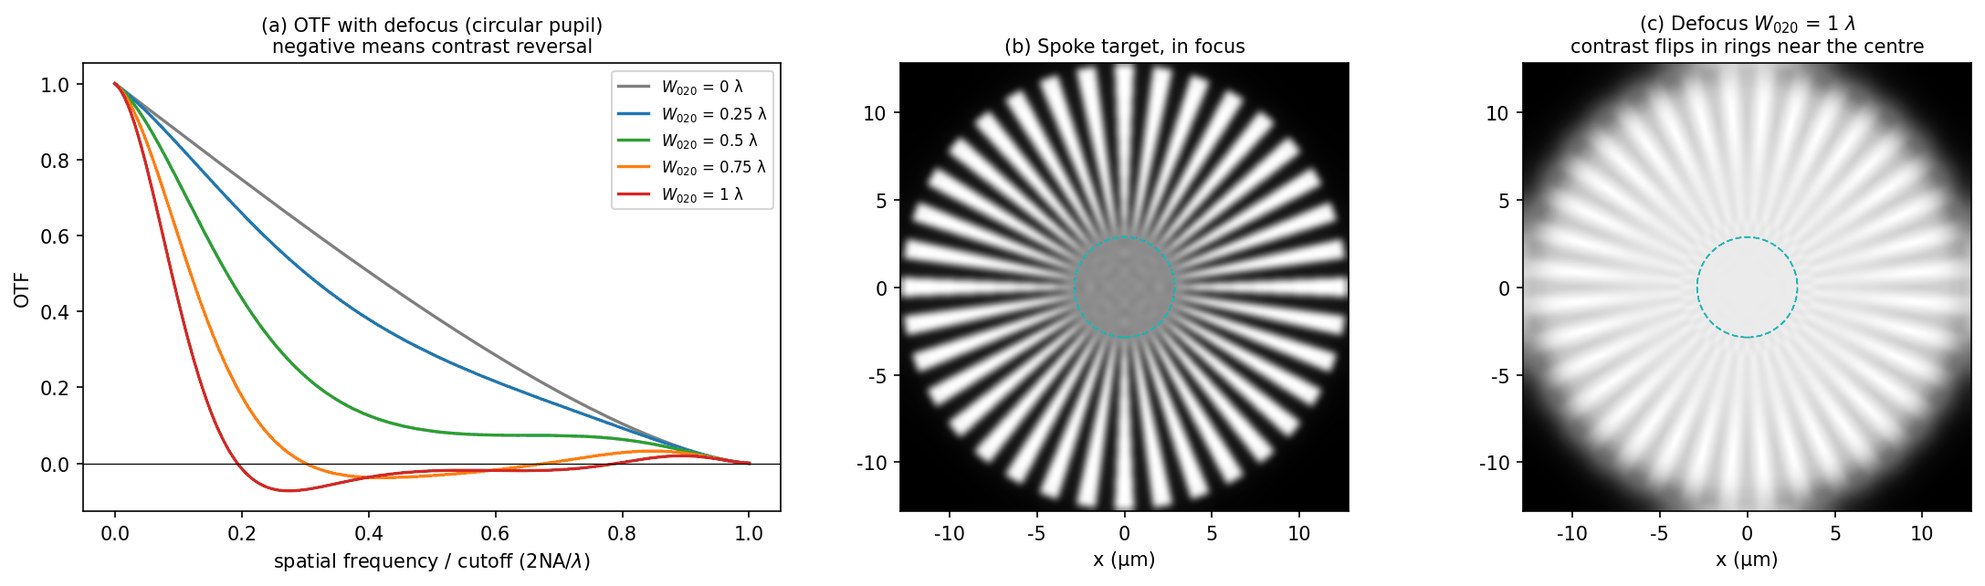
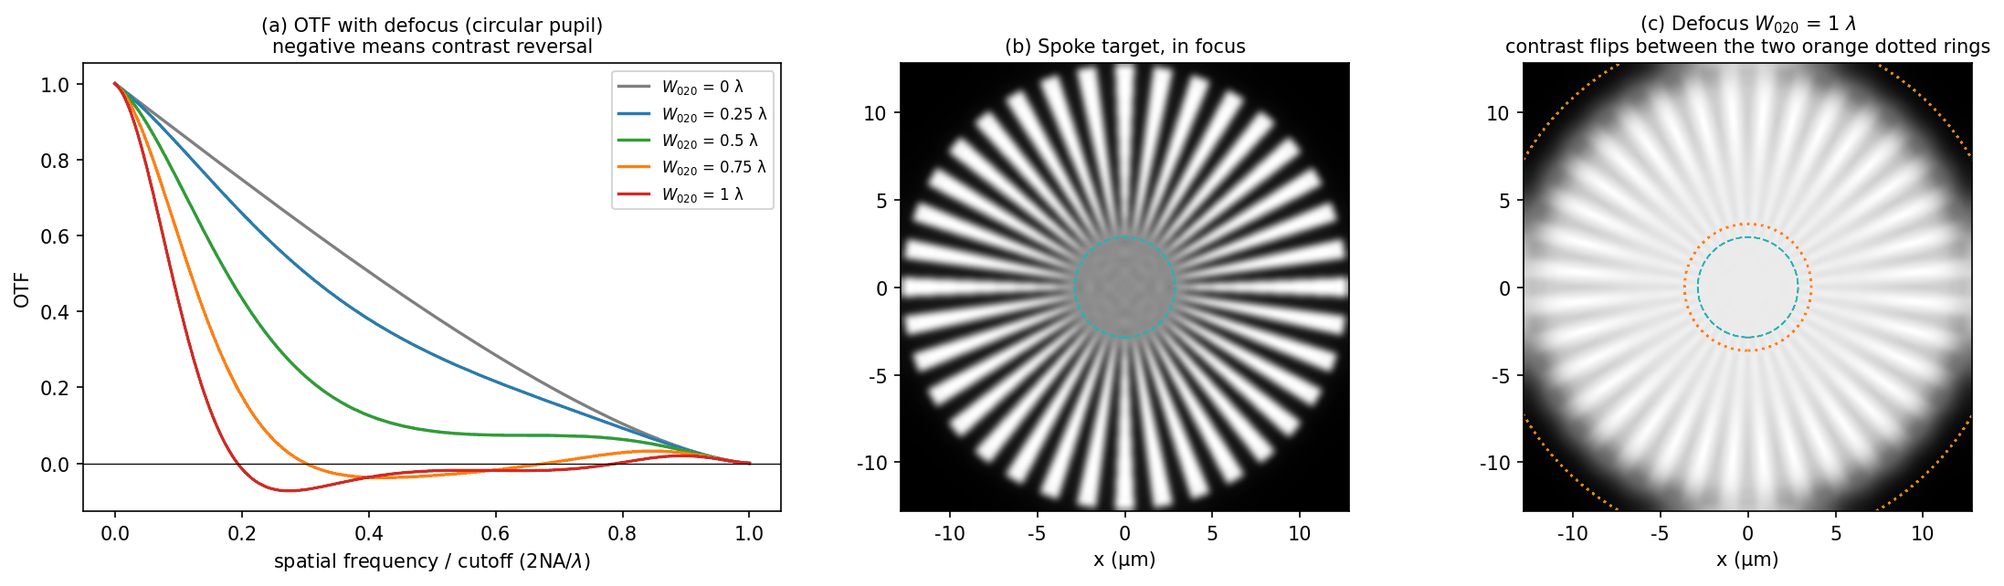
fix(post): wave-optics-fourier-imaging — 점검 반영: 번역체·근거·그림, 그림 다시 생성
tech-writing-style 점검(2026-10-15) 반영:
- 번역체·어색한 문장 다듬기 (한·영)
- 그림·표와 맞지 않던 본문·캡션 서술 정정, 근거보다 넓던 결론을 실험 조건으로 한정
- 그림을 다시 그려야 하는 경미 항목은 따로 처리 예정
근거: _references/wave-optics-fourier-imaging/audit-20261015.md (git 제외)

diff --git a/_code/wave-optics-fourier-imaging/generate_figures.py b/_code/wave-optics-fourier-imaging/generate_figures.py
@@ -380,11 +380,20 @@ def figure7(L):
         I = incoherent_image(obj, dx, NA, LAM, W)
         ax.imshow(I, cmap="gray", origin="lower", extent=[-n * dx / 2, n * dx / 2] * 2)
         ttl = t(L, f"({lab}) 바큇살 표적, 초점", f"({lab}) Spoke target, in focus") if Wd == 0 else \
-            t(L, f"({lab}) 초점 어긋남 $W_{{020}}$ = 1 λ\n가운데 근처 고리에서 명암이 뒤집힌다", f"({lab}) Defocus $W_{{020}}$ = 1 λ\ncontrast flips in rings near the centre")
+            t(L, f"({lab}) 초점 어긋남 $W_{{020}}$ = 1 λ\n주황 점선 두 고리 사이에서 명암이 뒤집힌다", f"({lab}) Defocus $W_{{020}}$ = 1 λ\ncontrast flips between the two orange dotted rings")
         ax.set_title(ttl, fontsize=10, **font(L))
         ax.set_xlabel("x (µm)")
         r_cut = 36 / (2 * np.pi * 2 * NA / LAM)
         ax.add_patch(mpatches.Circle((0, 0), r_cut, fill=False, ec="c", ls="--", lw=0.9))
+        if Wd:                       # OTF 가 음수인 주파수 구간(첫 영점 ~ 마지막 음수 끝)에 해당하는 고리
+            W1 = (lambda rho, th: rho**2)
+            nu_f = np.linspace(0.02, 1.0, 400) * 2 * NA / LAM
+            O = np.real(otf_by_overlap(nu_f * 0 + nu_f, NA, LAM, W=W1, m=501))
+            neg = nu_f[O < 0]
+            r_hi, r_lo = (36 / (2 * np.pi * neg.min()), 36 / (2 * np.pi * neg.max()))
+            for rr in (r_lo, r_hi):
+                ax.add_patch(mpatches.Circle((0, 0), rr, fill=False, ec=C_KEY, ls=":", lw=1.4))
+            print(f"    그림7(c): OTF<0 구간 반지름 {r_lo:.2f}–{r_hi:.2f} µm (주파수 {neg.min()/(2*NA/LAM):.2f}–{neg.max()/(2*NA/LAM):.2f} 차단)")
     fig.tight_layout()
     save(fig, L, "fig7-defocus-mtf-spoke.png", palette=True)
 

diff --git a/_posts/2026-12-09-wave-optics-fourier-imaging-en.md b/_posts/2026-12-09-wave-optics-fourier-imaging-en.md
@@ -12,16 +12,16 @@ description: "Treating the lens as a Fourier transformer, this post follows cohe
 math: true
 ---
 
-In front of a university building in Jena, Germany, stands a sphere carved from stone. The pedestal bears the name of Ernst Abbe (1840–1905), and instead of a decoration the band around the sphere carries a single formula (Figure 1).
+In front of a university building in Jena, Germany, stands a sphere carved from stone. The pedestal bears the name of Ernst Abbe (1840–1905), and the band around the sphere carries a single formula between diagonal-stripe decorations (Figure 1).
 
 <img src="/assets/img/posts/wave-optics-fourier-imaging/ext-abbe-memorial.jpg" alt="The Ernst Abbe memorial in Jena and the resolution formula carved on its sphere" width="760">
 _Figure 1. The Abbe memorial (1977) in front of the building at Fürstengraben 23, Jena. On the right, the part of the band bearing the formula $d = \lambda/(2n\sin\alpha)$ is cropped and enlarged. (Source: KaurJmeb at the English Wikipedia project, [Ernst Abbe memorial](https://commons.wikimedia.org/wiki/File:Ernst_Abbe_memorial.JPG), [CC BY-SA 3.0](https://creativecommons.org/licenses/by-sa/3.0/), right side cropped and enlarged)_
 
-$d = \lambda/(2n\sin\alpha)$ is the smallest spacing a microscope can resolve. Here $n\sin\alpha$ is the numerical aperture (NA) of the objective. With 500 nm visible light and an NA 1.4 oil-immersion objective it gives about 0.18 µm. However good the lens, two lines closer than that look like one. Abbe derived this limit in 1873 while designing microscopes in Carl Zeiss's workshop [1, 2]. His idea fits in one sentence: the microscope image is the result of the diffraction pattern made by the specimen interfering again [3].
+$d = \lambda/(2n\sin\alpha)$ is the smallest spacing a microscope can resolve. Here $n\sin\alpha$ is the numerical aperture (NA) of the objective. With 500 nm visible light and an NA 1.4 oil-immersion objective it gives about 0.18 µm. In air NA is below 1, so this value never drops below $\lambda/2$. The 0.18 µm is smaller than $\lambda/2$ = 0.25 µm because the wavelength inside the immersion oil is shorter. However good the lens, two lines closer than that look like one. Abbe derived this limit in 1873 while designing microscopes in Carl Zeiss's workshop [1, 2]. His idea fits in one sentence: the microscope image is the result of the diffraction pattern made by the specimen interfering again [3].
 
 [Part 3](/en/posts/wave-optics-diffraction/) ended by saying that the pattern of light that has travelled far is the Fourier transform of the aperture, and that a convex lens pulls that pattern into its focal plane. This post starts there and answers the following questions.
 
-- Why can't a microscope see things smaller than half a wavelength? Why is there a 2 in the formula above?
+- Why can't a microscope (in air) see things smaller than half a wavelength? Why is there a 2 in the formula above?
 - Why does an image taken with coherent light, like a laser, differ from one taken with lamp light? Which is sharper?
 - What does the modulation transfer function (MTF) on a lens data sheet measure? Why does the contrast of stripes reverse when the focus is slightly off?
 - How far should a microscope's condenser diaphragm be opened?
@@ -43,7 +43,7 @@ Here $U$ is the field of the object placed in the front focal plane and $(u, v)$
 
 The back focal plane is not an imaginary plane. The back focal plane of a microscope objective physically exists inside the tube, and it can be seen by removing the eyepiece or inserting a Bertrand lens [3]. [Ellipsometer part 6](/en/posts/ellipsometer-back-focal-plane-micro/) read reflections at all angles at once in this plane.
 
-Applying the Fourier transform once more returns the original function (inverted). So if two lenses are placed with focal lengths $f$ between them, the first lens transforms, the second reverses it, and an image of the object appears. The distance from object to image is $4f$, so this is called a 4f system. A mask placed in the Fourier plane in the middle is itself a filter on spatial frequencies [4, 5].
+Applying the Fourier transform once more returns the original function (inverted). So if two lenses are placed $2f$ apart, with the object a distance $f$ in front of the first and the image a distance $f$ behind the second, the first lens transforms, the second reverses it, and an image of the object appears. The distance from object to image is $4f$, so this is called a 4f system. A mask placed in the Fourier plane in the middle is itself a filter on spatial frequencies [4, 5].
 
 <img src="/assets/img/posts/wave-optics-fourier-imaging/en/fig2-lens-fourier-4f.png" alt="Structure of the 4f system, the object, the back-focal-plane intensity, and the image passed through the lens aperture" width="780">
 _Figure 2. (a) The 4f system. Light leaving the object plane at different heights in the same direction (red, green) gathers at one point of the Fourier plane. (b) An object made of vertical stripes (period 4 µm), horizontal stripes (period 0.8 µm) and a round hole. (c) Intensity in the Fourier plane (log scale). The vertical stripes make points on the horizontal axis and the horizontal stripes make points on the vertical axis. The cyan dashed circle is the range of spatial frequencies accepted by an NA 0.5 lens (wavelength 0.5 µm). (d) The coherent image made only from the light inside the dashed circle. The points of the 0.8 µm horizontal stripes lie outside the circle, so those stripes vanish from the image._
@@ -64,15 +64,15 @@ $$
 \Lambda_{\min} = \frac{\lambda}{\mathrm{NA}}\qquad (\text{head-on illumination})
 $$
 
-Tilt the illumination and the 0th order can be sent to one edge of the lens aperture while the +1st order is caught at the opposite edge. The angular span between the 0th and 1st orders then uses the whole lens aperture, and the limit halves:
+Tilt the illumination and the 0th order can be sent to one edge of the lens aperture while the +1st order is caught at the opposite edge. The 0th order enters at one edge of the aperture and the 1st at the opposite edge, so the two orders can be up to $2\,\mathrm{NA}$ apart in angle, and the resolvable period halves:
 
 $$
 \Lambda_{\min} = \frac{\lambda}{2\,\mathrm{NA}}\qquad (\text{oblique illumination})
 $$
 
-This is the formula carved on the memorial in Figure 1, and the reason it contains a 2. In other words, the 2 appears because the 0th and 1st orders each use one edge of the lens aperture. As a check in this post's calculation, at NA 0.5 head-on illumination shows a grating of period 1.05 λ/NA and makes a 0.95 λ/NA grating perfectly uniform. Illumination tilted to the pupil edge shows gratings down to 0.52 λ/NA and becomes uniform at 0.48 λ/NA. In numbers, with an NA 1.4 oil-immersion objective and 500 nm light, the limit is 0.36 µm for head-on illumination and 0.18 µm for oblique illumination.
+This is the formula carved on the memorial in Figure 1, and the reason it contains a 2. In other words, the 2 appears because the 0th and 1st orders each use one edge of the lens aperture. Numerically, at NA 0.5 head-on illumination shows a grating of period 1.05 λ/NA and makes a 0.95 λ/NA grating perfectly uniform. Illumination tilted to the pupil edge shows gratings down to 0.52 λ/NA and becomes uniform at 0.48 λ/NA. In numbers, with an NA 1.4 oil-immersion objective and 500 nm light, the limit is 0.36 µm for head-on illumination and 0.18 µm for oblique illumination.
 
-Abbe's theory was not readily accepted at first. In 1906 Porter (A. B. Porter) showed how the image changes when masks of various shapes are placed in the back focal plane [2, 4]. Figure 3 repeats that experiment by calculation.
+Abbe's theory was not readily accepted at first. In 1906 Alexander B. Porter showed how the image changes when masks of various shapes are placed in the back focal plane [2, 4]. Figure 3 repeats that experiment by calculation.
 
 <img src="/assets/img/posts/wave-optics-fourier-imaging/en/fig3-abbe-porter.png" alt="Images of a mesh object with six different masks in the Fourier plane" width="780">
 _Figure 3. Calculation of the Abbe–Porter experiment. The object is a wire mesh (period 4 µm) with a few specks of dust on it, illuminated with coherent light. Top row: Fourier-plane intensity and the mask (blue is blocked); bottom row: image intensity. (a) All pass. (b) Only the central 0th order and its surroundings pass: the mesh vanishes and only blurry dust remains. (c) Horizontal slit: only the orders on the horizontal axis remain, so only the vertical wires are visible. (d) Only the 0th and ±1st orders pass: the mesh becomes a smooth dot pattern. (e) Only the 0th order blocked: the contrast reverses and the wires become bright. (f) Only the mesh orders blocked: the mesh vanishes and only the dust remains, bright._
@@ -87,16 +87,16 @@ $$
 H_c(\nu) = \begin{cases} 1, & \lvert\nu\rvert \le \mathrm{NA}/\lambda \\ 0, & \lvert\nu\rvert > \mathrm{NA}/\lambda \end{cases}
 $$
 
-Here $\nu$ is the spatial frequency in the object plane, and $H_c$ is called the amplitude transfer function. In other words, the transfer function of coherent imaging is nothing other than the shape of the pupil, with cutoff frequency $\mathrm{NA}/\lambda$ [2, 4]. In the spatial domain, the image amplitude is the object amplitude convolved with the amplitude point-spread function (the Fourier transform of the pupil, the Airy amplitude $2J_1(v)/v$). Goodman's book writes the cutoff as $w/\lambda z_i$ in terms of the lens radius and image distance; rewritten in terms of the object-side NA, it becomes the formula above.
+Here $\nu$ is the spatial frequency in the object plane, and $H_c$ is called the amplitude transfer function. In other words, the transfer function of coherent imaging is nothing other than the shape of the pupil, with cutoff frequency $\mathrm{NA}/\lambda$ [2, 4]. In the spatial domain, the image amplitude is the object amplitude convolved with the amplitude point-spread function (PSF). This PSF is the Fourier transform of the pupil, the Airy amplitude $2J_1(v)/v$. Goodman's book writes the cutoff as $w/\lambda z_i$ in terms of the lens radius $w$ and image distance $z_i$; rewritten in terms of the object-side NA, it becomes the formula above.
 
 This filter has an abrupt threshold. An abruptly cut filter leaves ripples in the image. The statement in [Metrology Image Processing 3](/en/posts/imgproc-frequency-domain-filtering/) that cutting frequencies abruptly leaves rings in space happens here in a lens. Figure 4(a) is the result.
 
 <img src="/assets/img/posts/wave-optics-fourier-imaging/en/fig4-coherent-incoherent-edge-points.png" alt="Images of an edge, two points and three bars under coherent and incoherent illumination" width="780">
 _Figure 4. An imaging system with NA 0.5 at 0.5 µm. (a) Image of an edge. Coherent illumination (red) passes 1/4 intensity at the boundary, rises to 1.19 and ripples. Incoherent illumination (blue) passes 1/2 at the boundary and rises smoothly. (b) Two points separated by the Rayleigh spacing (0.61 λ/NA). Two incoherent points have a dip of 0.735. For two coherent points, depending on the phase difference, the dip disappears (0), stays the same (π/2) or drops all the way to 0 (π). (c), (d) Three bars spaced 0.7 λ/NA. Illuminated coherently in phase they nearly merge into one lump; illuminated incoherently they separate into three._
 
-The image of the edge resembles the straight edge of Part 3, Section 3. The coherent image has exactly 1/4 intensity at the boundary [4]. On the bright side it overshoots to a maximum of 1.19 in this post's calculation. The incoherent image is at 1/2 at the boundary. So in an image taken with coherent illumination, taking the 50 % point as the boundary misreads the linewidth. Goodman points out that this difference matters when measuring linewidths on integrated-circuit masks [4].
+The image of the edge resembles the straight edge of Part 3, Section 3. The coherent image has exactly 1/4 intensity at the boundary [4]. On the bright side it overshoots to a maximum of 1.19 numerically. The incoherent image is at 1/2 at the boundary. So in an image taken with coherent illumination, taking the 50 % point as the boundary misreads the linewidth. Goodman points out that this difference matters when measuring linewidths on integrated-circuit masks [4].
 
-The result for two points depends on the coherence of the illumination. Two incoherent points add in intensity, so the dip is 0.735 as in Part 3's Rayleigh criterion. Two coherent points add in amplitude, so the phase difference between them changes the result (Figure 4(b)) [4]. In phase, the amplitudes reinforce in the middle and no dip forms. At a phase difference of π/2 the cross term vanishes and the result is exactly the incoherent one. At a phase difference of π the amplitudes cancel in the middle and the dip falls to 0. For two in-phase points to show a 0.735 dip, the spacing must widen to $0.82\lambda/\mathrm{NA}$ [2]. This post's calculation also gives 0.82. That is the origin of microscopy textbooks quoting a resolution of $0.82\lambda/\mathrm{NA}$ for coherent illumination and $0.61\lambda/\mathrm{NA}$ for incoherent illumination.
+The result for two points depends on the coherence of the illumination. Two incoherent points add in intensity, so the dip (the minimum intensity between the peaks divided by the maximum intensity of the peaks) is 0.735 as in Part 3's Rayleigh criterion. Two coherent points add in amplitude, so the phase difference between them changes the result (Figure 4(b)) [4]. In phase, the amplitudes reinforce in the middle and no dip forms. At a phase difference of π/2 the cross term vanishes and the result is exactly the incoherent one. At a phase difference of π the amplitudes cancel in the middle and the dip falls to 0. For two in-phase points to show a 0.735 dip, the spacing must widen to $0.82\lambda/\mathrm{NA}$ [2]. The calculation also gives 0.82. This is where the textbook values come from: microscopy textbooks quote a resolution of $0.82\lambda/\mathrm{NA}$ for coherent illumination and $0.61\lambda/\mathrm{NA}$ for incoherent illumination.
 
 ## 4. How much stripe contrast survives under incoherent light?
 
@@ -114,7 +114,7 @@ $$
 \mathrm{OTF}(\nu) = \frac{2}{\pi}\left[\arccos s - s\sqrt{1-s^2}\right],\qquad s = \frac{\nu}{2\,\mathrm{NA}/\lambda}
 $$
 
-It reaches 0 at $\nu = 2\mathrm{NA}/\lambda$, where the two circles separate completely. The cutoff frequency is twice the coherent one (Figure 5(a)) [2]. In this post's calculation, the FFT of $\lvert h\rvert^2$, a direct calculation of the pupil overlap and the closed form above agree to within 0.1 %.
+It reaches 0 at $\nu = 2\mathrm{NA}/\lambda$, where the two circles separate completely. The cutoff frequency is twice the coherent one (Figure 5(a)) [2]. Numerically, the FFT of $\lvert h\rvert^2$, a direct calculation of the pupil overlap and the closed form above agree to within 0.1 %.
 
 The OTF is in general complex. Its magnitude is called the MTF (modulation transfer function) and its phase the PTF (phase transfer function) [1]. The meaning of the MTF is simple. Measure the contrast of a pattern whose brightness varies sinusoidally by its modulation
 
@@ -129,13 +129,13 @@ _Figure 5. (a) For an aberration-free circular pupil, the amplitude transfer fun
 
 Is incoherent imaging, with twice the cutoff frequency, then twice as good? No [4, 5]. The coherent cutoff applies to the amplitude spectrum and the incoherent cutoff to the intensity spectrum. They are filters acting on different quantities, so comparing their cutoff frequencies is meaningless. Goodman shows this with one example (Figure 5(c), (d)) [4]. The intensity of both objects is $\cos^2$; only the sign of the amplitude differs. The amplitude spectrum of object A, whose amplitude is cos, lies at ±0.75 NA/λ and passes the pupil, so the coherent image is perfect. Object B, whose amplitude is \|cos\|, has a fundamental amplitude frequency of 1.5 NA/λ, outside the pupil, so the coherent image is uniform grey (intensity $4/\pi^2 \approx 0.41$). Incoherent illumination sees only intensity, so it cannot tell the two objects apart and makes the same image with contrast reduced by the OTF value of 0.14 at the intensity frequency 1.5 NA/λ. In other words, which illumination is better depends on the phase of the object.
 
-The three bars of Figure 4(c), (d) tell the same story. At a spacing of 0.7 λ/NA the coherent image is nearly one lump (dip between bars 0.83, defined as the minimum intensity between the bars on the center line divided by the maximum intensity of the bar peaks), while the incoherent image separates them (dip 0.63). But widen the spacing to 0.9 λ/NA and the order reverses: the dip of the coherent image (0.14) is deeper than that of the incoherent image (0.32), because the ripples of the coherent image carve the space between the bars darker. Goodman's conclusion is practical. If you can, incoherent illumination is the better choice, because it has none of the side effects of coherence such as ripples and speckle. In high-resolution microscopy, holography and optical information processing, however, coherence cannot be avoided [4].
+The three bars of Figure 4(c), (d) tell the same story. At a spacing of 0.7 λ/NA the coherent image is nearly one lump (dip between bars 0.83), while the incoherent image separates them (dip 0.63). But widen the spacing to 0.9 λ/NA and the order reverses: the dip of the coherent image (0.14) is deeper than that of the incoherent image (0.32), because the ripples of the coherent image carve the space between the bars darker. Goodman's conclusion is practical. If you can, incoherent illumination is the better choice, because it has none of the side effects of coherence such as ripples and speckle. In holography and optical information processing, however, coherence cannot be avoided [4].
 
 ## 5. How far should the condenser diaphragm be opened?
 
 Which of the two is a real microscope? In a transmission microscope the specimen does not emit light itself; it is illuminated by lamp light gathered through a condenser. Close the condenser diaphragm down tightly and the specimen receives nearly a single plane wave from one direction, which is close to coherent illumination. Open it fully and light from many directions mixes incoherently, which is close to incoherent illumination. In between is partial coherence [2]. In terms of the van Cittert–Zernike theorem of [Part 2](/en/posts/wave-optics-coherence/), the size of the condenser diaphragm sets the spatial coherence distance on the specimen.
 
-The calculation can use Abbe's picture as it is. Each point of the condenser diaphragm illuminates the specimen with one plane wave in a particular direction. The image for one plane wave is the coherent image of Section 3. Light from different points of the diaphragm is mutually incoherent, so the intensity of the coherent image is computed for each point and the results are added. Hopkins's (H. H. Hopkins) theory of partially coherent imaging, formalized in 1951 and 1953, organizes this calculation into a function called the transmission cross-coefficient [2]. Let the NA ratio of condenser to objective be $$\sigma = \mathrm{NA}_{\text{condenser}}/\mathrm{NA}_{\text{objective}}$$. At the most tilted plane wave, the 0th order is pushed sideways within the pupil as in Section 2, so the highest frequency that can pass is
+The calculation can use Abbe's picture as it is. Each point of the condenser diaphragm illuminates the specimen with one plane wave in a particular direction. The image for one plane wave is the coherent image of Section 3. Light from different points of the diaphragm is mutually incoherent, so the intensity of the coherent image is computed for each point and the results are added. Harold H. Hopkins's theory of partially coherent imaging, formalized in 1951 and 1953, organizes this calculation into a function called the transmission cross-coefficient [2]. Let the NA ratio of condenser to objective be $$\sigma = \mathrm{NA}_{\text{condenser}}/\mathrm{NA}_{\text{objective}}$$. At the most tilted plane wave, the 0th order is pushed sideways within the pupil as in Section 2, so the highest frequency that can pass is
 
 $$
 \nu_{\max} = (1+\sigma)\,\frac{\mathrm{NA}}{\lambda}
@@ -148,7 +148,7 @@ _Figure 6. Partially coherent imaging with the condenser-diaphragm NA ratio σ s
 
 Figure 6 shows the price of closing and opening the condenser diaphragm. Opening it (larger σ) reveals finer patterns and calms the ripples at edges (a, b). In exchange, the contrast of medium-fine patterns drops (c). The σ = 0.6 curve passes contrast unchanged up to 0.4 NA/λ and then falls, while the σ = 0 curve keeps contrast 1 right up to the cutoff. This is the microscope user's experience that closing the diaphragm raises contrast and lowers resolution [3].
 
-So how far should it be opened? The conclusion first: there is no single right answer. But there is a starting point. Murphy and Davidson advise setting the condenser diaphragm so that about 3/4 (70–75 %) of the diameter of the objective's back aperture appears lit, then adjusting for the specimen [3]. They also warn against closing the diaphragm to reduce brightness when the image is too bright. Brightness is reduced with the lamp voltage or ND filters; the diaphragm is used only to balance resolution and contrast [3]. Considering only two-point resolution, in the calculation of Hopkins and Barham (1950) the minimum resolvable distance falls from 0.82 λ/NA at σ = 0 to slightly below 0.61 λ/NA around σ ≈ 1.5 [2]. That result is for two pinholes of equal brightness, not a prescription for every specimen. Köhler illumination, introduced by A. Köhler in 1893, images the lamp filament onto the plane of the condenser diaphragm. The specimen is therefore illuminated evenly, while the angular range of the illumination (σ) can be adjusted separately with the condenser diaphragm alone [2, 3]. It is the standard arrangement of transmission microscopes today.
+So how far should it be opened? The conclusion first: there is no single right answer. But there is a starting point. Murphy and Davidson advise setting the condenser diaphragm so that about 3/4 (70–75 %) of the diameter of the objective's back aperture appears lit, then adjusting for the specimen [3]. They also warn against closing the diaphragm to reduce brightness when the image is too bright. Brightness is reduced with the lamp voltage or ND filters; the diaphragm is used only to balance resolution and contrast [3]. Considering only two-point resolution, in the calculation of Hopkins and Barham (1950) the minimum resolvable distance falls from 0.82 λ/NA at σ = 0 to slightly below 0.61 λ/NA around σ ≈ 1.5 [2]. That result is for two pinholes of equal brightness, not a prescription for every specimen. Köhler illumination, introduced by August Köhler in 1893, images the lamp filament onto the plane of the condenser diaphragm. The specimen is therefore illuminated evenly, while the angular range of the illumination (σ) can be adjusted separately with the condenser diaphragm alone [2, 3]. It is the standard arrangement of transmission microscopes today.
 
 ## 6. How do aberrations erode the transfer function?
 
@@ -157,9 +157,9 @@ So how far should it be opened? The conclusion first: there is no single right a
 Take the most common aberration, defocus. Defocus is the pupil phase $W_{020}\rho^2$, and in the paraxial case it is related to the distance $z$ from the focal plane by $W_{020} = \tfrac{1}{2}\mathrm{NA}^2 z$ [2].
 
 <img src="/assets/img/posts/wave-optics-fourier-imaging/en/fig7-defocus-mtf-spoke.png" alt="OTF curves with defocus and images of a spoke target" width="780">
-_Figure 7. (a) OTF of a circular pupil with defocus $$W_{020}$$ set to 0, 0.25, 0.5, 0.75 and 1 λ (incoherent imaging). At 0.75 λ and 1 λ there are ranges where the OTF becomes negative. (b) Image of a target with 36 spokes (in focus). Inside the cyan dashed circle the spokes are spaced more finely than the cutoff frequency and smear into grey. (c) The same target with $$W_{020}$$ = 1 λ. The spokes blur, and in a few rings outside the dashed circle the white and black spokes swap places._
+_Figure 7. (a) OTF of a circular pupil with defocus $$W_{020}$$ set to 0, 0.25, 0.5, 0.75 and 1 λ (incoherent imaging). At 0.75 λ and 1 λ there are ranges where the OTF becomes negative. (b) Image of a target with 36 spokes (in focus). Inside the cyan dashed circle the spokes are spaced more finely than the cutoff frequency and smear into grey. (c) The same target with $$W_{020}$$ = 1 λ. The spokes blur. The region between the two orange dotted rings (radius 3.6–14.7 µm) corresponds to the frequencies where the OTF is negative. The negative values are small, so the contrast reversal appears only weakly on the blurred spokes._
 
-In Figure 7(a), the more the focus is off, the more the OTF collapses, starting from high frequencies. At 0.25 λ (Rayleigh's quarter-wave criterion) the curve is still gentle, but at 1 λ it already crosses 0 near 1/5 of the cutoff and goes negative. A negative OTF means reversed contrast: places that should be bright are dark and places that should be dark are bright. This is visible in the spoke target (c). The spokes are thick on the outside and thin on the inside, so the spatial frequency changes along the radius, and in the rings corresponding to frequencies where the OTF is negative the contrast of the spokes flips [4]. For a circular pupil, this calculation shows the OTF first going negative when $W_{020}$ exceeds about 0.64 λ. For a square pupil the threshold is λ/2 [4]. Converting 0.64 λ with the relation above gives $z \approx 1.3\lambda/\mathrm{NA}^2$. In Part 3, Section 5, the distance at which the on-axis intensity first reaches 0 was $2\lambda/\mathrm{NA}^2$, so stripe contrast already begins to reverse somewhat closer than that. At NA 0.5 and 500 nm it is about 2.6 µm.
+In Figure 7(a), the more the focus is off, the more the OTF collapses, starting from high frequencies. At 0.25 λ (Rayleigh's quarter-wave criterion) the curve is still gentle, but at 1 λ it already crosses 0 near 1/5 of the cutoff and goes negative. A negative OTF means reversed contrast: places that should be bright are dark and places that should be dark are bright. This can be followed in the spoke target (c). The spokes are thick on the outside and thin on the inside, so the spatial frequency changes along the radius, and in the rings corresponding to frequencies where the OTF is negative the contrast of the spokes flips [4]. For a circular pupil, this calculation shows the OTF first going negative when $W_{020}$ exceeds about 0.64 λ. For a square pupil the threshold is λ/2 [4]. Converting 0.64 λ with the relation above gives $z \approx 1.3\lambda/\mathrm{NA}^2$. In Part 3, Section 5, the distance at which the on-axis intensity first reaches 0 was $2\lambda/\mathrm{NA}^2$, so stripe contrast already begins to reverse somewhat closer than that. At NA 0.5 and 500 nm it is about 2.6 µm.
 
 One point is worth noting when handling MTFs in practice. The MTFs of mutually independent elements, such as a lens, a sensor and vibration, multiply to give the overall MTF. But when the aberrations of one lens can be cancelled by another, as when two lenses are joined in tandem, they must not be multiplied [1]. Aberrations add at the amplitude (pupil) stage, and the MTF comes from the autocorrelation of the result.
 
@@ -173,7 +173,7 @@ $$
 
 Here $\varphi$ is the phase added by the specimen, assumed to be much smaller than 1. The 1 is the 0th-order light that went straight through the specimen, and $i\varphi$ is the diffracted light scattered by it. The $i$ attached to the diffracted light means it is 90° out of phase with the 0th order. Computing the intensity gives $\lvert 1 + i\varphi\rvert^2 = 1 + \varphi^2$: the cross term vanishes and only $\varphi^2$ remains [2, 4]. In other words, because the diffracted light is at right angles to the 0th order, it cannot change the brightness by interference. A phase of 0.1 rad changes the brightness by only 1 %.
 
-Zernike's (F. Zernike) idea was to change that 90°. In the back focal plane the 0th order gathers at one point (or one ring), while the diffracted light spreads widely. So place a plate a quarter-wave thick only where the 0th order gathers, shifting its phase by 90°. Advancing the 0th order by a quarter wave multiplies it by $-i$, giving
+Frits Zernike's idea was to change that 90°. In the back focal plane the 0th order gathers at one point (or one ring), while the diffracted light spreads widely. So place a plate a quarter-wave thick only where the 0th order gathers, shifting its phase by 90°. Advancing the 0th order by a quarter wave multiplies it by $-i$, giving
 
 $$
 I \approx \lvert -i + i\varphi\rvert^2 = (1-\varphi)^2 \approx 1 - 2\varphi
@@ -189,7 +189,7 @@ _Figure 8. The same cells seen in brightfield (left) and phase contrast (right).
 <img src="/assets/img/posts/wave-optics-fourier-imaging/en/fig9-phase-contrast.png" alt="Calculation of a weak phase object seen in brightfield, defocus, positive and negative phase contrast, and dark field" width="780">
 _Figure 9. Calculation of a phase object imitating a cell (maximum 0.4 rad) seen with NA 0.5 at 0.5 µm. (a) The phase added by the specimen. (b) Brightfield, in focus. The modulation is 0.003, almost invisible. (c) Brightfield, defocused by 1.5 λ. Outlines and granules appear along with ripples. (d) Positive phase contrast (0th order advanced by λ/4 and its intensity reduced to 1/4). The modulation rises to 0.51; the thick nucleus and granules are dark, and a bright halo forms around the cell. (e) Negative phase contrast (0th order retarded by λ/4). The contrast is reversed. (f) Dark field. The edges glow brightly. (b) and (c) share the same brightness scale; the others each use their own._
 
-Figure 8 shows this effect in a real photograph: cells whose outlines are barely visible in brightfield show their nuclei and internal structure in phase contrast. The calculation of Figure 9 shows two habits of phase-contrast images. First, the bright band around the cell, the halo. The phase plate covers not only the 0th order but also the very low frequencies around it. The slow phase variation across the whole cell is treated like the 0th order and has its phase shifted too, so a band of opposite contrast forms at the edges of large objects [3]. Second, shade-off, in which the middle of a large object drifts back toward the background brightness (the middle of the cell body in (d)). It arises for the same reason. So the brightness of a phase-contrast image is not a map of phase. It should be read as the output of a filter that emphasizes small structures.
+Figure 8 shows this effect in a real photograph: cells whose outlines are barely visible in brightfield show their nuclei and internal structure in phase contrast. The calculation of Figure 9 shows two habits of phase-contrast images. First, a bright band appears around the cell: the halo. The phase plate covers not only the 0th order but also the very low frequencies around it. The slow phase variation across the whole cell is treated like the 0th order and has its phase shifted too, so a band of opposite contrast forms at the edges of large objects [3]. Second, shade-off, in which the middle of a large object drifts back toward the background brightness (the middle of the cell body in (d)). It arises for the same reason. So the brightness of a phase-contrast image is not a map of phase. It should be read as the output of a filter that emphasizes small structures.
 
 Figure 9(c) is also worth noting. Deliberately defocusing makes a phase object visible. Defocus multiplies the pupil by a phase that differs from frequency to frequency, and at frequencies where that phase is close to 90° it does the same job as the phase plate. This is exactly how an electron microscope sees the phase of atoms. The contrast transfer function (CTF) and Scherzer defocus of [Electron Microscopy part 6](/en/posts/electron-microscopy-tem-phase-contrast-ctf/) are techniques for producing this 90° over a wide range of frequencies using aberrations and defocus. It is fair to regard them as Zernike phase contrast that uses the aberrations of an electron lens instead of an optical phase plate.
 
